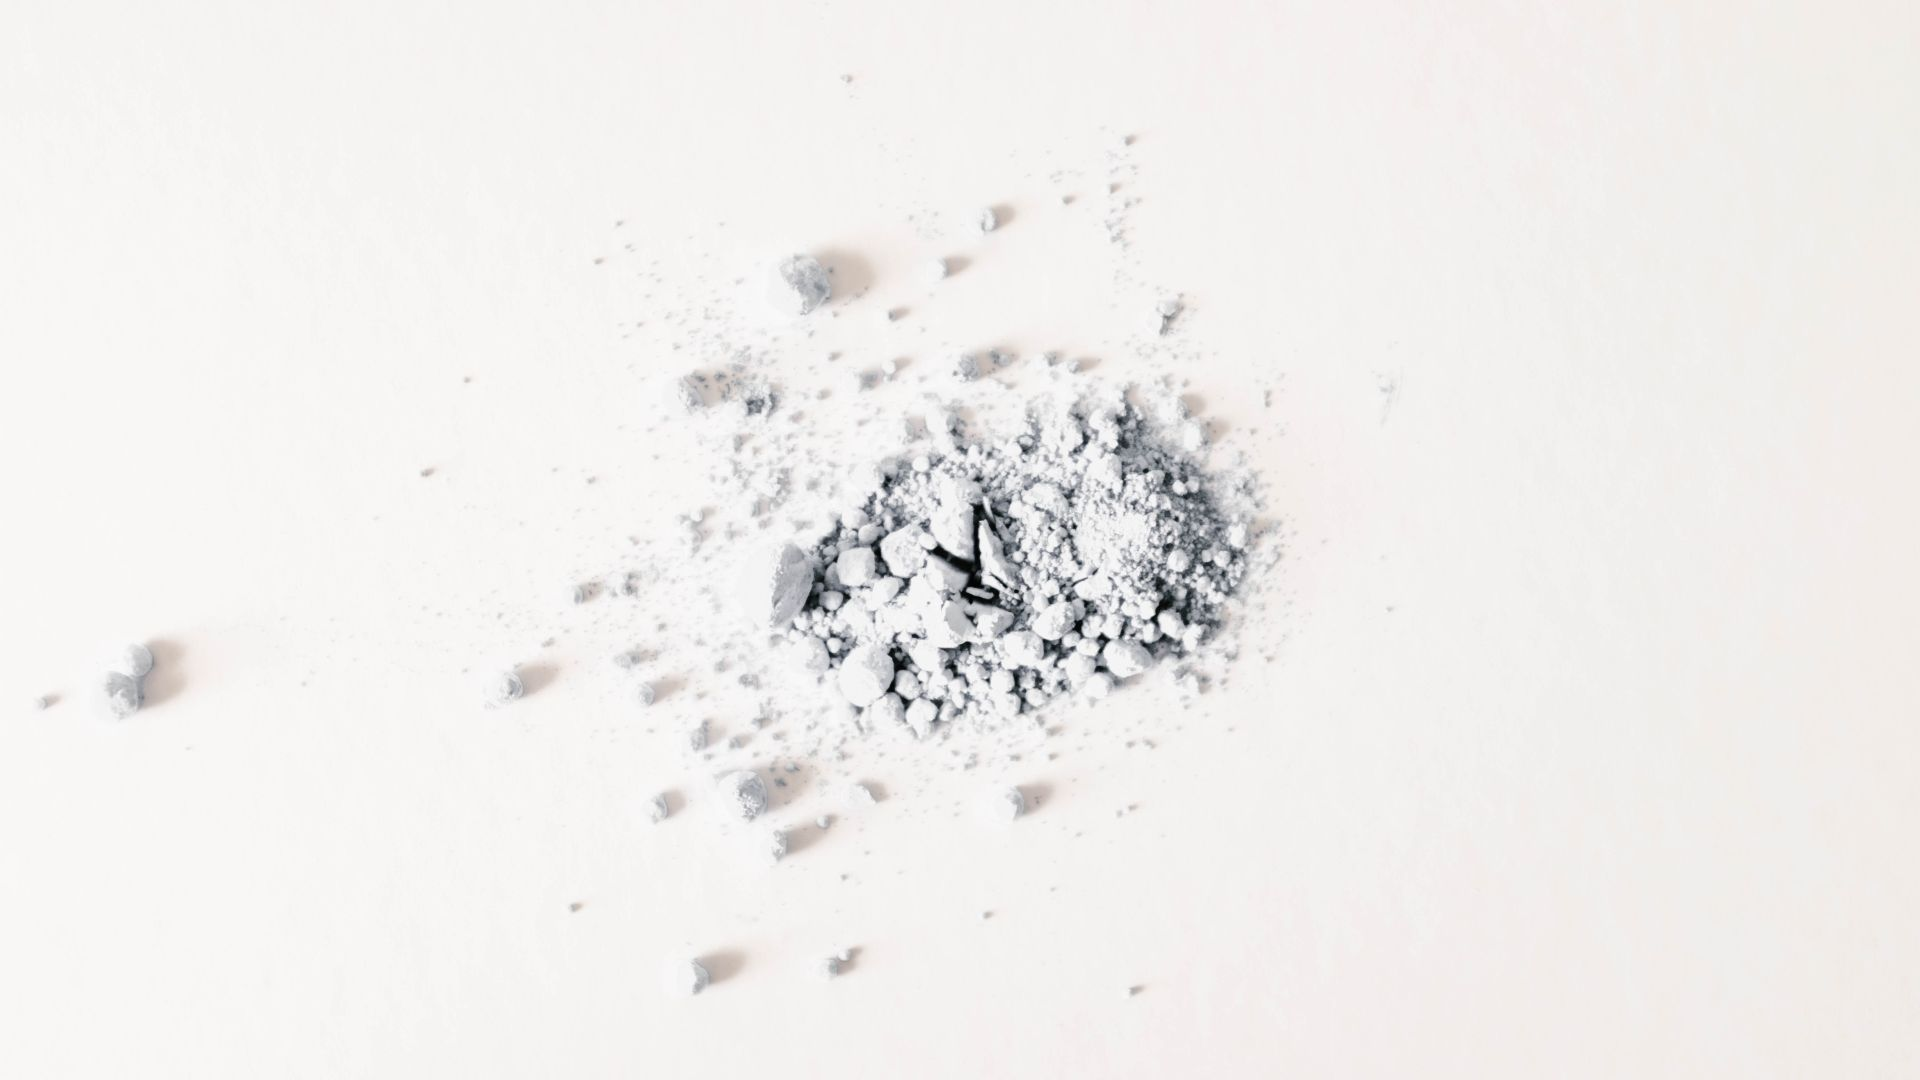
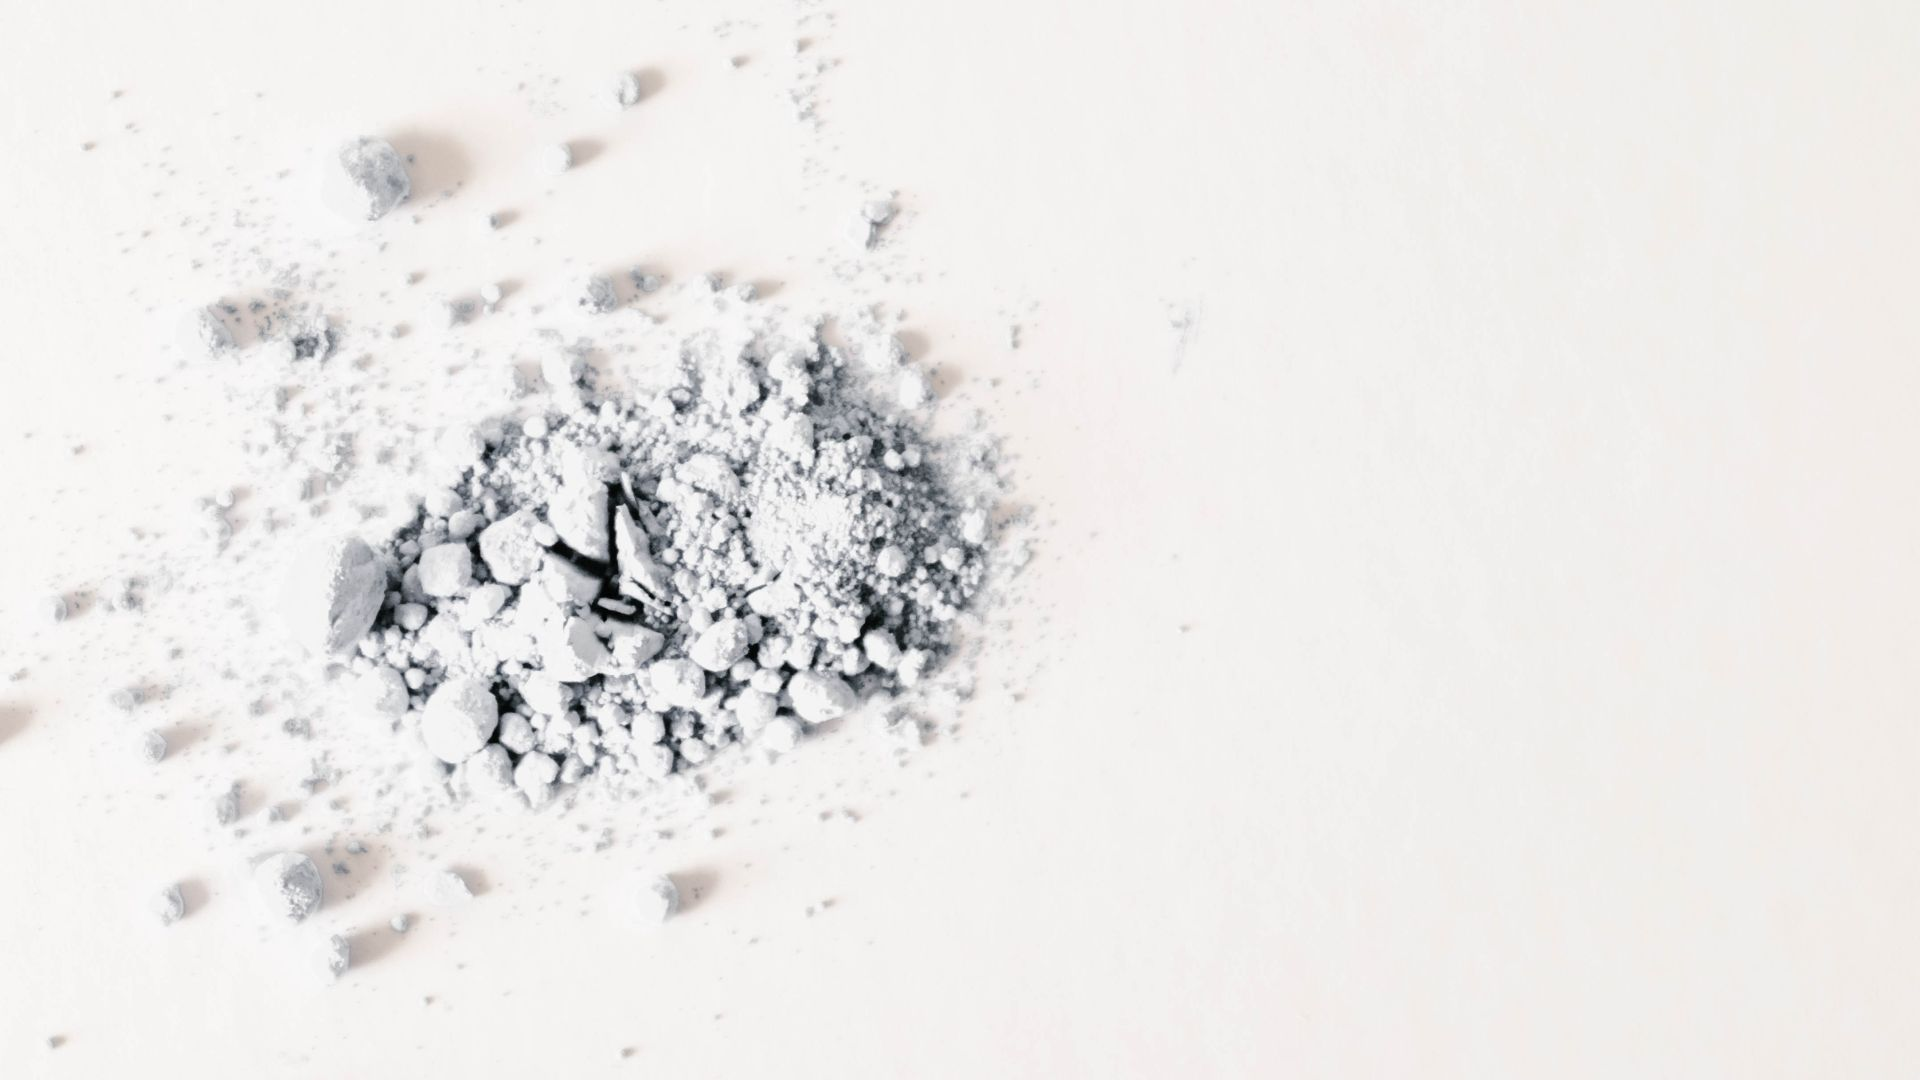
succesfully preloaded images

diff --git a/public_html/js/projects.js b/public_html/js/projects.js
@@ -14,20 +14,19 @@ const backgroundImagesConfig = [
 let allTilesArray = document.querySelectorAll('#projects__tiles__list li'),
         tilesContainer = document.querySelector('#projects__tiles__list'),
         projectsBackgroundElement = document.querySelector("#projects-background"),
-        projectsTitleElement = document.querySelector("#projects-hiding-title");
-
+        projectsTitleElement = document.querySelector("#projects-hiding-title"),
+        preloadedImagesArray = new Array();
 
 function preloadBackgroundImages() {
-    let preloadedImagesArray = new Array(9).fill(new Image());
     backgroundImagesConfig.forEach((imageName, index) => {
+        console.log('image loading:', imageName);
+        preloadedImagesArray[index] = new Image();
         preloadedImagesArray[index].src = `img/${imageName}.jpg`;
     });
-//    var my_image = new Image();
-//    my_image.src = 'img/fire.jpg';
 }
 
-function setProjectsBackground(backgroundImage) {
-    projectsBackgroundElement.style.backgroundImage = `url('img/${backgroundImage}.jpg')`;
+function setProjectsBackground(index) {
+    projectsBackgroundElement.style.backgroundImage = `url('${preloadedImagesArray[index].src}')`;
     projectsTitleElement.style.opacity = "0";
 }
 
@@ -44,7 +43,7 @@ allTilesArray.forEach((tile, index) => {
     tile.addEventListener("mouseenter", () => {
         setTimeout(() => {
             if (isHovered(tile)) {
-                setProjectsBackground(backgroundImagesConfig[index]);
+                setProjectsBackground(index);
             }
         }, transitionAnimationDuration);
     });

diff --git a/public_html/css/main.css b/public_html/css/main.css
@@ -67,7 +67,7 @@
     background-position: right;
     background-repeat: no-repeat;
     background-size: cover;
-    filter: grayscale(75%);
+    filter: grayscale(50%);
     z-index: 2; }
 
 .projects {
@@ -83,7 +83,6 @@
     transition: 0.5s; }
     .projects__caption h3 {
       margin: 280px 260px 0 90px;
-      text-align: justify;
       font-size: 30px;
       line-height: 2.2; }
       @media all and (max-width: 1350px) {

diff --git a/public_html/scss/_projects.scss b/public_html/scss/_projects.scss
@@ -17,7 +17,7 @@
         background-position: right;
         background-repeat: no-repeat;
         background-size: cover;
-        filter: grayscale(75%);
+        filter: grayscale(50%);
         z-index: 2;
     }
 }
@@ -37,7 +37,6 @@
 
         h3 {
             margin: 280px 260px 0 90px;
-            text-align: justify;
             font-size: 30px;
             line-height: 2.2;
             
